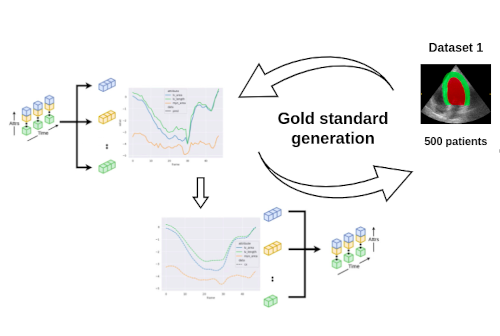
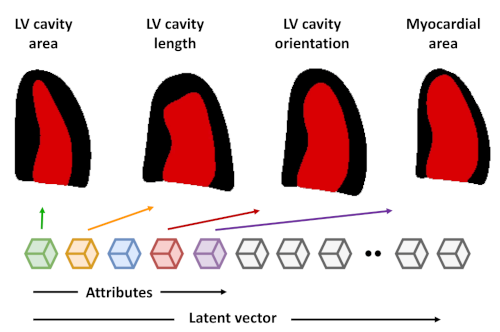
research page on representation learning v3

diff --git a/_research/research-gold-standard.md b/_research/research-gold-standard.md
@@ -2,9 +2,15 @@
 title: "Representation learning for gold standard segmentation generation"
 excerpt: "We have developed a strategy based on learning the representation of plausible cardiac shapes to efficiently generate gold standard annotations. This pipeline has been successfully applied to two other tasks: the simulation of realistic echocardiographic sequences and the generalization of segmentation tools.  
 <br/><br/>
-<img src='/images/research_representation_learning_shapes_2.png'>"
+<img src='/images/research_representation_learning_shapes.png'>"
 collection: research
 ---
 
 This work was done by my PhD student <strong>Nathan Painchaud</strong> in co-supervision with Pr. <strong>Pierre-Marc Jodoin</strong> at the university of Sherbrooke and expert in AI.
+
+We have developed a post-processing pipeline utilizing attribute-regularized variational auto-encoders. This framework creates an efficient latent space to represent cardiac shapes with dimensions closely tied to cardiac attributes like left ventricular surface area, left ventricular basal plane length, myocardial surface area, and more. Our approach was employed to generate precise segmentations of cardiac structures throughout the entire cardiac cycle. This achievement was made possible by identifying and rectifying temporal inconsistencies in the segmentation sequence within the latent space, facilitating a more meaningful analysis of cardiac shapes. The diagram below shows the overall strategy of our approach. 
+
+<br>
+<img src='/images/research_representation_learning_shapes_full.png'>
+
 
